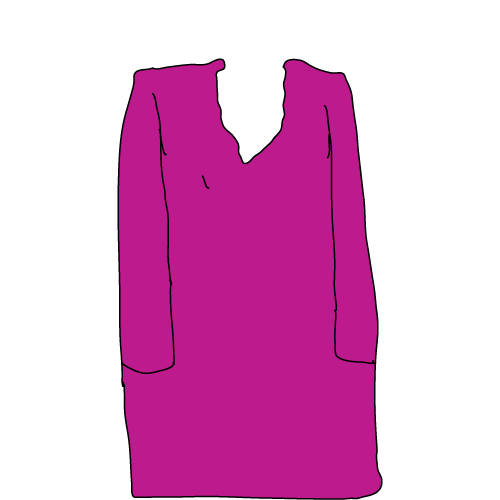
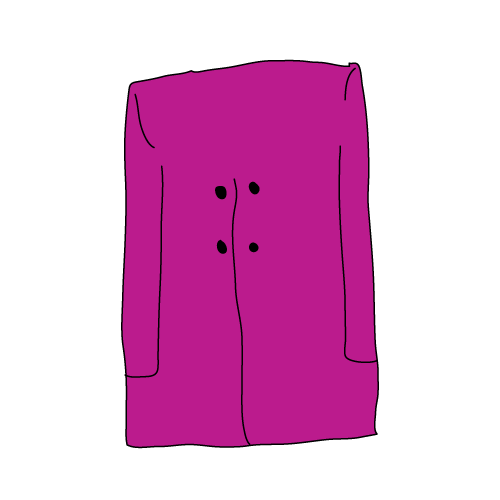
Har nå forskjellige kropper i kingscross

Changed region(s): [[0.21, 0.12, 0.78, 1.0], [0.39, 0.36, 0.54, 0.63]]

diff --git a/webglstuff/src/realtime-texture-collection.js b/webglstuff/src/realtime-texture-collection.js
@@ -50,6 +50,26 @@ class RealtimeTextureCollection {
         texture: loader.load("http://localhost:3000/internal/" + filename)
       });
     }
+
+        this._kcBodies = {male: [], female: []};
+
+        for (let i = 1; i <= 4; i++) {
+          const filename = "kropp-m-"+i+"-kc.png";
+          const metadata = this.getMetadata(filename);
+          this._kcBodies.male.push({
+            metadata: metadata,
+            texture: loader.load("http://localhost:3000/internal/" + filename)
+          });
+        }
+
+        for (let i = 1; i <= 4; i++) {
+          const filename = "kropp-f-"+i+"-kc.png";
+          const metadata = this.getMetadata(filename);
+          this._kcBodies.female.push({
+            metadata: metadata,
+            texture: loader.load("http://localhost:3000/internal/" + filename)
+          });
+        }
   }
 
   get nofTextures() {
@@ -58,6 +78,10 @@ class RealtimeTextureCollection {
 
   get bodies() {
     return this._bodies;
+  }
+
+  get kcBodies() {
+    return this._kcBodies;
   }
 
   getDefault(sex, mal) {
@@ -126,10 +150,21 @@ class RealtimeTextureCollection {
       "kropp-m-3.png": {mal: 3, animation: "*", sex: "male"},
       "kropp-m-4.png": {mal: 4, animation: "*", sex: "male"},
 
+
+      "kropp-f-1-kc.png": {mal: 1, animation: "*", sex: "female"},
+      "kropp-f-2-kc.png": {mal: 2, animation: "*", sex: "female"},
+      "kropp-f-3-kc.png": {mal: 3, animation: "*", sex: "female"},
+      "kropp-f-4-kc.png": {mal: 4, animation: "*", sex: "female"},
+      "kropp-m-1-kc.png": {mal: 1, animation: "*", sex: "male"},
+      "kropp-m-2-kc.png": {mal: 2, animation: "*", sex: "male"},
+      "kropp-m-3-kc.png": {mal: 3, animation: "*", sex: "male"},
+      "kropp-m-4-kc.png": {mal: 4, animation: "*", sex: "male"},
+
     }
 
     if (mappings[filename]) return mappings[filename];
     else throw "IKKE IMPLEMENTERT for " + filename;
+    //else return {mal: 4, animation: "*", sex: "male"}
   }
 }
 

diff --git a/webglstuff/src/kingscross.js b/webglstuff/src/kingscross.js
@@ -185,9 +185,9 @@ export class KingsCross {
 
         makeBoxRow(-0.975, 0.3, true)
 
-        makePeopleRow(-0.715, 0.2, "female");
+        makePeopleRow(-0.715, 0.2, "male");
         makePeopleRow(-0.59, 0.15, "female");
-        makePeopleRow(-0.465, 0.1, "male", true);
+        makePeopleRow(-0.465, 0.1, "female", true);
 
         makeBoxRow(-0.225, 0.25, true)
 
@@ -195,13 +195,13 @@ export class KingsCross {
 
         makeBoxRow(0.225, 0.25, true)
 
-        makePeopleRow(0.45, 0, "male") 
+        makePeopleRow(0.45, 0, "female") 
         makePeopleRow(0.6, 0.5, "female", true)
 
         makeBoxRow(0.925, 0.4, true)
 
         makePeopleRow(1.25, 0, "male")
-        makePeopleRow(1.4, 0.5, "male")
+        makePeopleRow(1.4, 0.5, "female")
 
         var light = new THREE.DirectionalLight(0xffffff, 0.7);
         light.position.set(3, 3, -1).normalize();
@@ -264,7 +264,7 @@ class PeopleRow extends THREE.Object3D {
     this.textureCollection = textureCollection;
 
     for (let i = 0; i < 100; i++) {
-      const body = Random.pick(textureCollection.bodies[sex]);
+      const body = Random.pick(textureCollection.kcBodies[sex]);
 
       const texture = body.texture; 
 
@@ -458,7 +458,7 @@ export class Background extends THREE.Object3D {
     super();
     const loader = new THREE.TextureLoader();
     const texture = loader.load("http://localhost:3000/internal/KingsCross-bg.png");
-    texture.minFilter = THREE.LinearFilter;
+    texture.minFilter = THREE.LinearMipMapLinearFilter;
 
     const material = new THREE.MeshBasicMaterial({
       transparent: true,

diff --git a/webglstuff/src/main.js b/webglstuff/src/main.js
@@ -18,8 +18,12 @@ const socket = ioClient("http://localhost:3000");
 // Blinking i People
 // Glitch i Manhattan
 
-// Få hoder og kropper FFS av Ben og Audun
-// Kropper i farger på Kings Cross
+// Ta hensyn til hvilken scene hvert bilde fra Joachim hører til
+
+// Få dummyhoder av Audun
+// Få kropper i farger i Telly
+
+// Øk antall kropper og dummyhoder fra 3-4 til alle
 
 // Jobbe sammen om fargene på Manhattan
 
